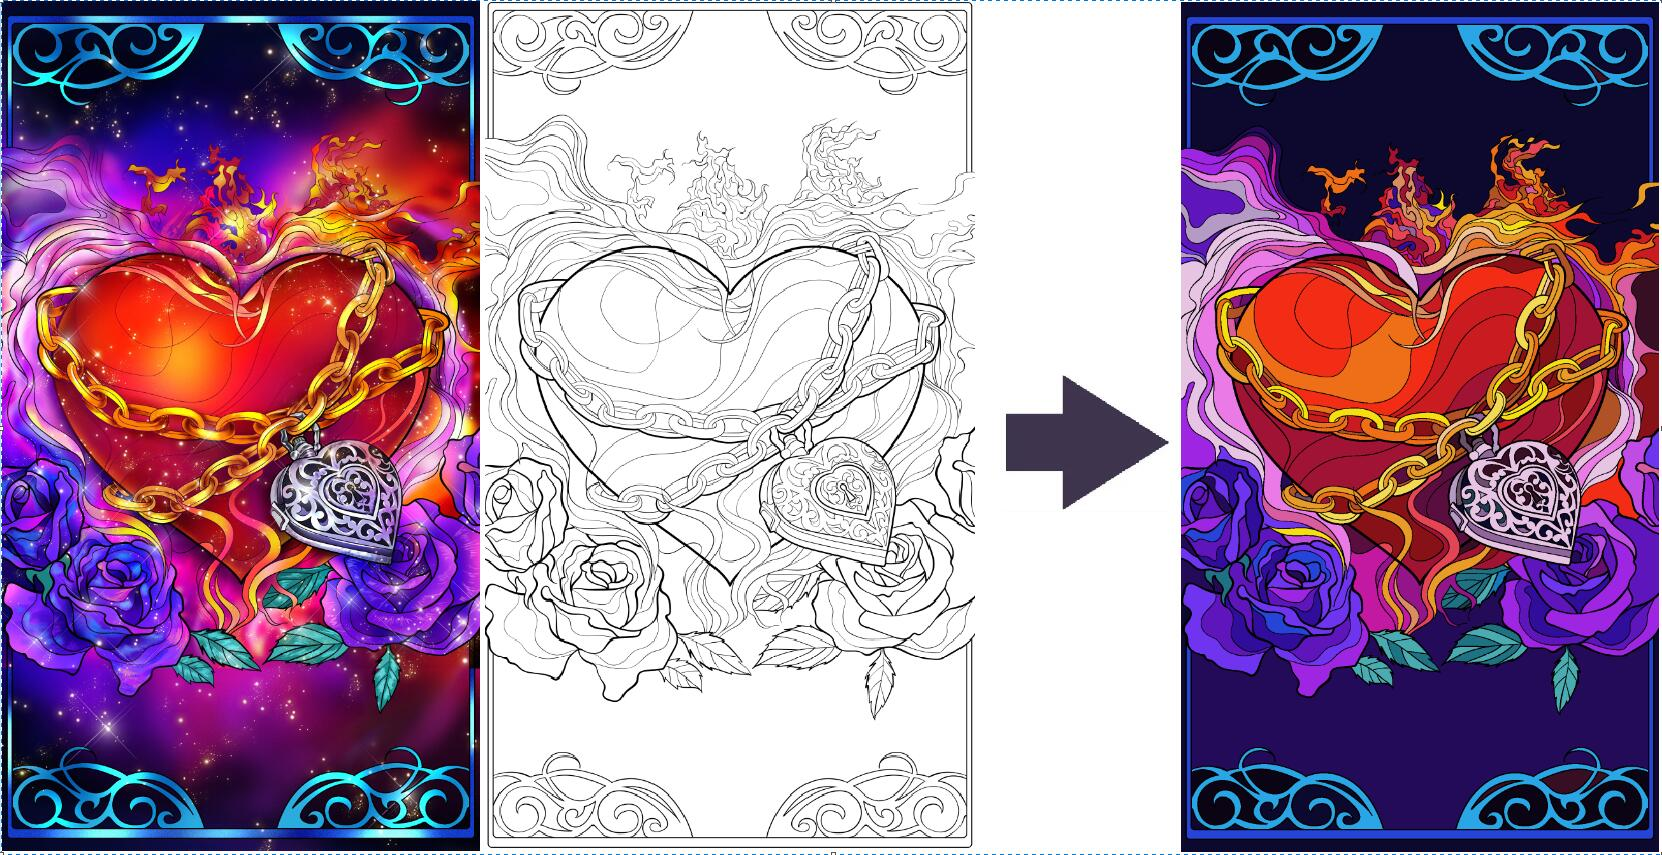
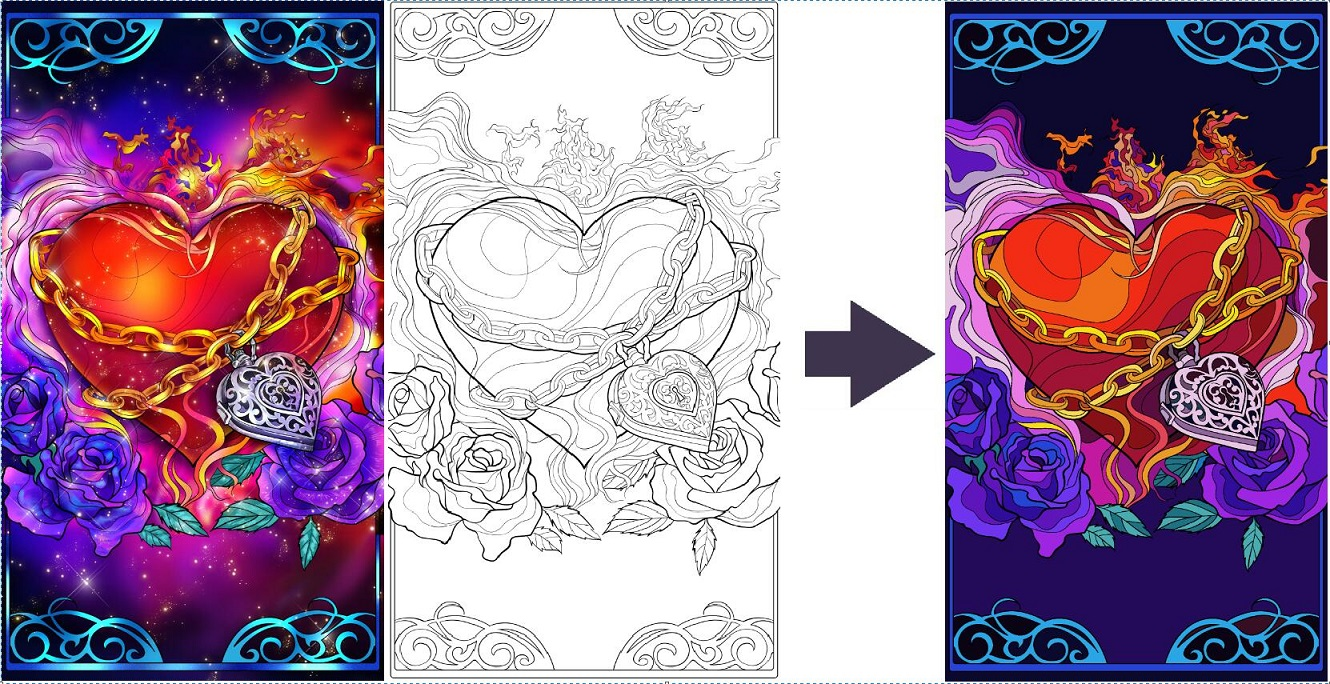
更新说明文件

diff --git a/main.py b/main.py
@@ -18,7 +18,7 @@ def distance(p1, p2):
     return np.sum((p1 - p2) ** 2)**0.5
 
 
-def flatImg(sketchFile, colorFile, k=10, nowhite=True):
+def flatImg(sketchFile, colorFile, k=30, nowhite=True):
     '''
     :param sketchFile: 输入的线框图
     :param colorFile: 输入的彩绘图
@@ -35,7 +35,7 @@ def flatImg(sketchFile, colorFile, k=10, nowhite=True):
     mask, mat = preprocess(gray, 254)
     num, eqValues, _ = searchSeg(mat)
     img = gray.convert("RGB")
-    result_img = getSegColor(colorFile, eqValues, mat, num, img, AREA_THRESH=AREA_THRESH, ENABLE_SAVE_UNQUALIFIED=ENABLE_SAVE_UNQUALIFIED)
+    rgb_area, result_img = getSegColor(colorFile, eqValues, mat, num, img)
     #colors = k_means(rgb_area, 10, white=True)
     colors = k_means(colorFile, k, white=nowhite)
     print(colors)
@@ -62,7 +62,7 @@ def flatImg(sketchFile, colorFile, k=10, nowhite=True):
     (filepath, filename) = os.path.split(colorFile)
     (shotname, extension) = os.path.splitext(filename)
     newfilename = filepath + "//" + shotname + "_flatted.png"
-    result_img.show()
+    # result_img.show()
     result_img.save(newfilename)
     end_time = time.time()
     time1 = round(end_time - start_time)
@@ -71,4 +71,4 @@ def flatImg(sketchFile, colorFile, k=10, nowhite=True):
 
 if __name__ == "__main__":
     imgpath = os.getcwd() + "//testimg//"
-    flatImg(imgpath+"3-3.png", imgpath+"3.jpeg", k=30, nowhite=True)
+    flatImg(imgpath+"4-4.png", imgpath+"4.jpeg", 40)

diff --git a/searchSegment.py b/searchSegment.py
@@ -55,6 +55,7 @@ def preprocess(im, v):
         mat.append(m)
     return mask, mat
 
+
 def eqList2eqValues(eqList, num):
     eqValues = list()
     valueMat = []

diff --git a/README.md b/README.md
@@ -1,1 +1,16 @@
-# PureColorExtractor
+基于彩绘图像生成纯色图像
+
+## 运行环境
+    python 3.7  
+## 库
+    PIL
+    opencv-python
+## 主程序
+    main.py
+## 使用说明
+- 参考main.py中的入口函数flatImg()。
+- 输入参数包括彩绘图文件、线框图文件、颜色数量，输出相应的纯色图，结果文件以_flatted结尾
+  参考效果如下所示：
+![输入输出示意图](https://github.com/zjustarstar/PureColorExtractor/blob/main/result/demo.jpg)
+
+    
